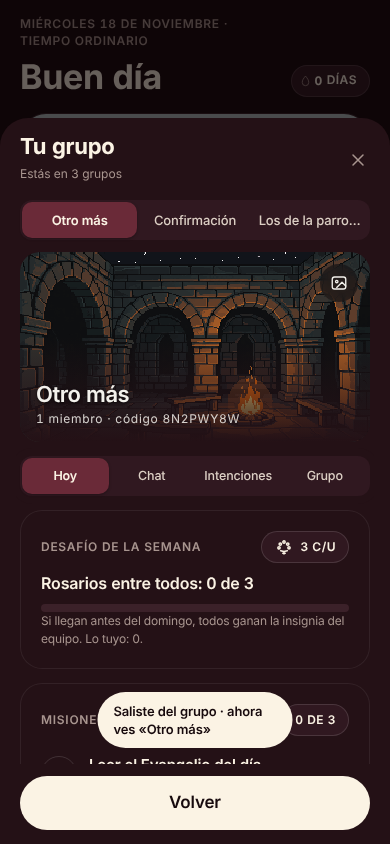
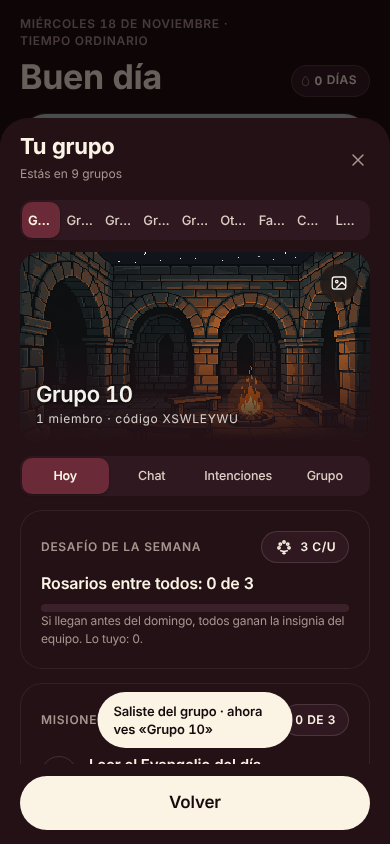
t35: topes nuevos de grupos

diff --git a/pruebas/t35.js b/pruebas/t35.js
@@ -47,7 +47,9 @@ const { chromium } = require('playwright');
   // grupos: gratis, uno
   await A('gEjemplo', null, 700); ok(/Los de la parroquia/.test(await H()), 'grupo de ejemplo');
   const g2 = await p.evaluate(() => window.DAILY.grupoBE().crear('Confirmación', { n: 'Ana' }));
-  await A('gUnirme', g2, 700); ok(await titulo() === 'Scaeli+', 'gratis: sumarse a un 2.º grupo lleva a Scaeli+');
+  await A('gUnirme', g2, 800); ok(await p.evaluate(() => window.DAILY.get().grupo.gid) === g2 && (await p.$$('#sheetIn .gsw button')).length === 2, 'gratis: se puede estar en 2 grupos (2.6)');
+  const g2b = await p.evaluate(() => window.DAILY.grupoBE().crear('Un tercero', { n: 'Z' }));
+  await A('gUnirme', g2b, 700); ok(await titulo() === 'Scaeli+', 'gratis: sumarse a un 3.er grupo lleva a Scaeli+');
 
   // ── con Scaeli+ ──
   await p.evaluate(() => localStorage.setItem('daily_plus_prueba', '1')); await p.reload(); await p.waitForTimeout(1200);
@@ -95,15 +97,17 @@ const { chromium } = require('playwright');
   const g3 = await p.evaluate(() => window.DAILY.grupoBE().crear('Familia', { n: 'Papá' }));
   await A('gUnirme', g3, 800); ok((await p.$$('#sheetIn .gsw button')).length === 3, 'un 3.er grupo');
   const g4 = await p.evaluate(() => window.DAILY.grupoBE().crear('Otro más', { n: 'X' }));
-  await A('gUnirme', g4, 800); ok((await p.$$('#sheetIn .gsw button')).length === 3 && await p.evaluate(() => window.DAILY.get().grupo.gid) === g3, 'el tope es 3 grupos');
+  await A('gUnirme', g4, 800); ok((await p.$$('#sheetIn .gsw button')).length === 4, 'con Scaeli+ ya no hay tope de 3');
+  for (let i = 5; i <= 11; i++) { const gx = await p.evaluate(i => window.DAILY.grupoBE().crear('Grupo ' + i, { n: 'X' }), i); await A('gUnirme', gx, 700); }
+  ok((await p.$$('#sheetIn .gsw button')).length === 10, 'el tope con Scaeli+ es 10 grupos: ' + (await p.$$('#sheetIn .gsw button')).length);
   const primero = await p.evaluate(() => [...document.querySelectorAll('#sheetIn .gsw button')].map(b => b.dataset.p).find(g => g !== window.DAILY.get().grupo.gid));
-  await A('gCambiar', primero, 700); ok(await p.evaluate(() => window.DAILY.get().grupo.gid) === primero && (await p.$$('#sheetIn .gsw button')).length === 3, 'cambiar de grupo con el selector');
+  await A('gCambiar', primero, 700); ok(await p.evaluate(() => window.DAILY.get().grupo.gid) === primero && (await p.$$('#sheetIn .gsw button')).length === 10, 'cambiar de grupo con el selector');
   // la ficha se publica en todos los grupos
   await p.waitForTimeout(1500);
   const enTodos = await p.evaluate(([a, b2, c]) => { const st = JSON.parse(localStorage.getItem('scaeli-daily-grupos') || '{}'); return [a, b2, c].map(g => !!(st[g] && st[g].m && st[g].m.local)); }, [g2, g3, primero]);
   ok(enTodos.every(Boolean), 'estás como miembro en los 3 grupos: ' + enTodos);
   await p.evaluate(() => { window.DAILY.ACC.gSalir(); }); await p.waitForTimeout(400); const c1 = await p.$('.dlg [data-r="1"]'); if (c1) await c1.click(); await p.waitForTimeout(900);
-  ok((await p.$$('#sheetIn .gsw button')).length === 2 && await p.evaluate(() => !!window.DAILY.get().grupo.gid), 'salir de uno: pasás al siguiente y quedan 2');
+  ok((await p.$$('#sheetIn .gsw button')).length === 9 && await p.evaluate(() => !!window.DAILY.get().grupo.gid), 'salir de uno: pasás al siguiente y quedan 9');
   await p.screenshot({ path: 't35.png' });
 
   console.log(errs.join('\n')); console.log(fails.length ? 'FALLAS:\n' + fails.join('\n') : 'OK t35');
